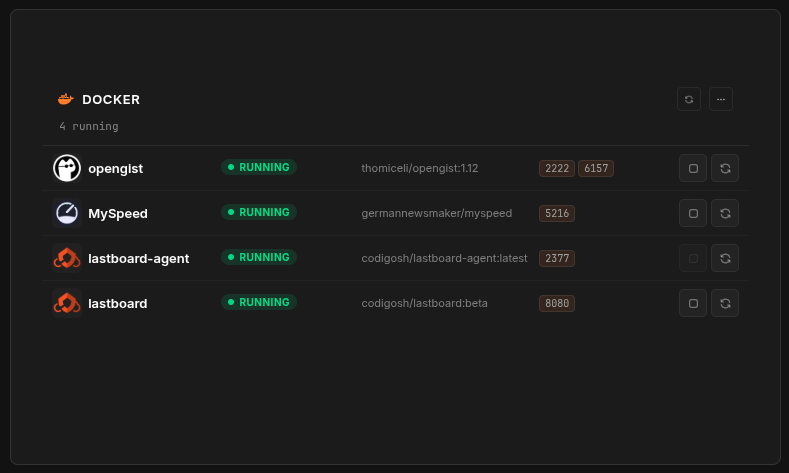
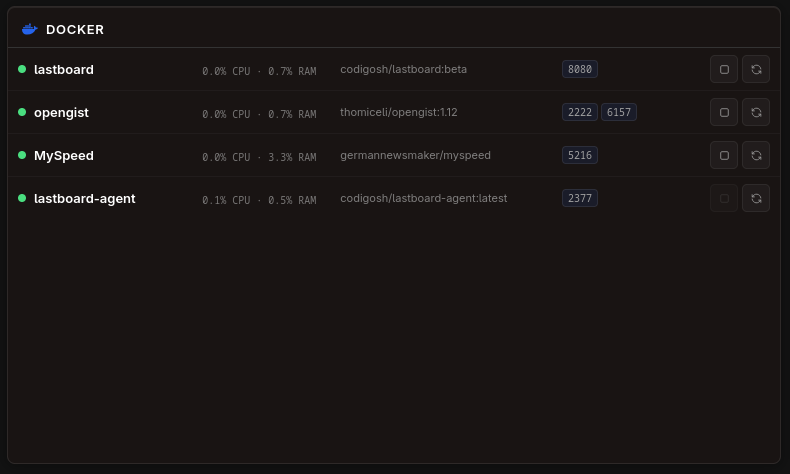
docs: show the widgets as they look now
The Docker and Monitoring widgets were rebuilt this cycle — coloured
dots instead of icons, controls moved out of the header and into the
settings screen — and Monitoring, the headline of this version, had a
page with no picture at all.

Adds the widget and its settings screen for both, updates the Docker
shot to the current one, and puts the row contents in Monitoring in the
order you actually read them.

The API widget's Refresh field claimed a 15s minimum. The choices are
30s, 1m, 5m and 10m, so it now says that.

Settings → Data gains a line about the icons card, since it appears
only when something is pending and is otherwise unexplained.

Checked across all 22 pages: every internal link, anchor and image
resolves, and no asset on disk is unreferenced.

diff --git a/docs/widgets/monitoring.md b/docs/widgets/monitoring.md
@@ -2,15 +2,17 @@
 
 The Monitoring widget puts the status page on your dashboard: which of your services are up, how they have behaved over the last 24 hours, and how long the last check took.
 
+![Monitoring Widget](../assets/w-monitor.png)
+
 ## Description
 
-It reads the same data as the full [Monitoring & Uptime](../monitoring/overview.md) page, so it shows a service as soon as that service is being monitored — you don't configure anything twice. Each row carries:
+It reads the same data as the full [Monitoring & Uptime](../monitoring/overview.md) page, so it shows a service as soon as that service is being monitored — you don't configure anything twice. Reading a row from left to right:
 
 - a status dot: **up**, **down**, or grey when there is no data yet
 - the **name** of the bookmark being monitored
+- a **heartbeat** of the most recent checks, oldest on the left
 - the **latency** of the last successful check
 - the **uptime** over the last 24 hours
-- a **heartbeat** of the most recent checks, oldest on the left
 
 Clicking a row opens the same history drawer as the status page, with the outage list and the latency chart.
 
@@ -19,6 +21,8 @@ Clicking a row opens the same history drawer as the status page, with the outage
 ## Choosing which services to show
 
 By default every monitored service is shown, including ones you add later. Untick the ones you don't want in the widget's configuration.
+
+![Monitoring widget configuration](../assets/w-p-monitor.png)
 
 Leaving them all ticked is not the same as ticking them one by one: the widget stores "show everything", so new services appear on their own. If you pick a subset and later stop monitoring one of them, it simply drops out of the list.
 

diff --git a/docs/widgets/api.md b/docs/widgets/api.md
@@ -37,7 +37,7 @@ Full control for any endpoint that has no preset. Set the **Service** selector t
 | **Headers** | Custom request headers, **one per line** as `Name: value` — typically for authentication (e.g. `Authorization: Bearer …` or `X-Api-Key: …`). |
 | **List array** *(optional)* | A path to an array in the response. Fill it to render a **list**; leave it empty for **metrics**. See [Display Modes](#display-modes). |
 | **Fields** | The values to show, **one per line** — see [Field Mappings](#field-mappings). |
-| **Refresh** | How often to re-fetch (minimum **15s**). |
+| **Refresh** | How often to re-fetch: 30s, 1m, 5m or 10m. |
 
 > Services that authenticate with a login session rather than a token or API key (for example qBittorrent, Deluge, or UniFi) are not offered as presets and must be configured in Advanced mode if their API supports header/token auth.
 

diff --git a/docs/using/preferences.md b/docs/using/preferences.md
@@ -57,6 +57,8 @@ Configure down/up alerts via ntfy, Gotify, or a webhook. Covered in **[Monitorin
 
 Full backup & restore, and importing/exporting dashboards. See **[Import, Export & Backup](import-export.md)**.
 
+If any of your bookmarks still fetch their icon from outside, this section says how many and offers to store them — see **[Where icons are stored](../getting-started/bookmarks.md#boards-made-before-this-existed)**. Normally there are none and it isn't shown.
+
 ## Advanced
 
 <!-- p-avanced.png keeps the app's own spelling of the file -->

diff --git a/docs/widgets/docker.md b/docs/widgets/docker.md
@@ -79,6 +79,8 @@ If securing the agent behind a reverse proxy (like Pangolin or Cloudflare Zero T
 
 Everything the widget shows is set from its configuration screen: enter the dashboard's edit mode and open the widget's settings.
 
+![Docker widget configuration](../assets/w-p-docker.png)
+
 ### Hosts
 
 You can add multiple hosts. Supported URL formats include:
